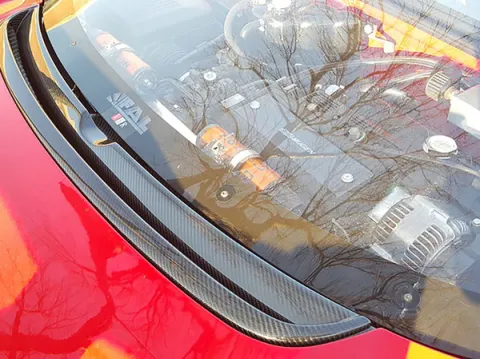
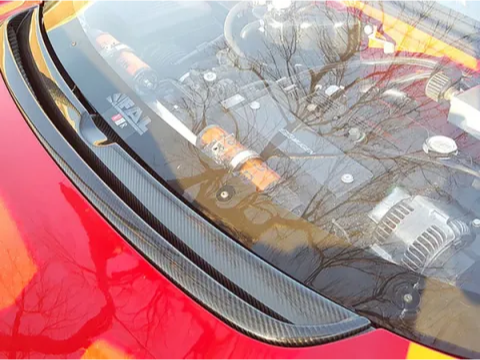
standardizing images yet again

diff --git a/index.html b/index.html
@@ -121,7 +121,7 @@
     #items .item img {
       width: 200%;
       max-width: 100%;
-      height: 400px;
+      height: 100%;
     }
 
     .page-title {
